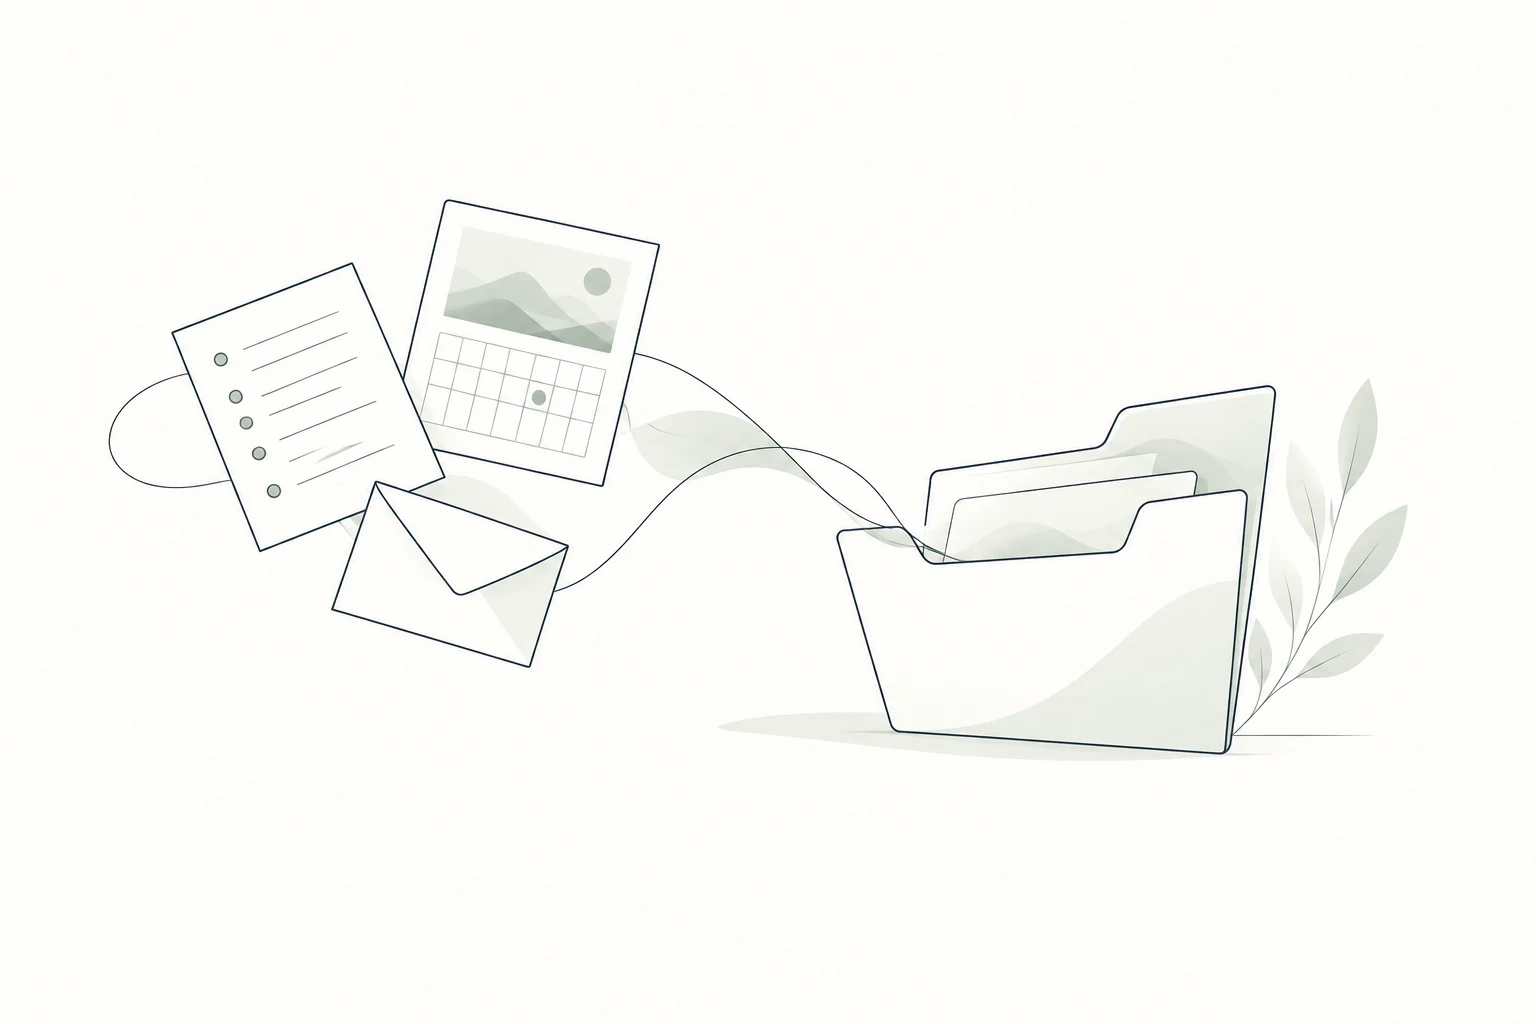
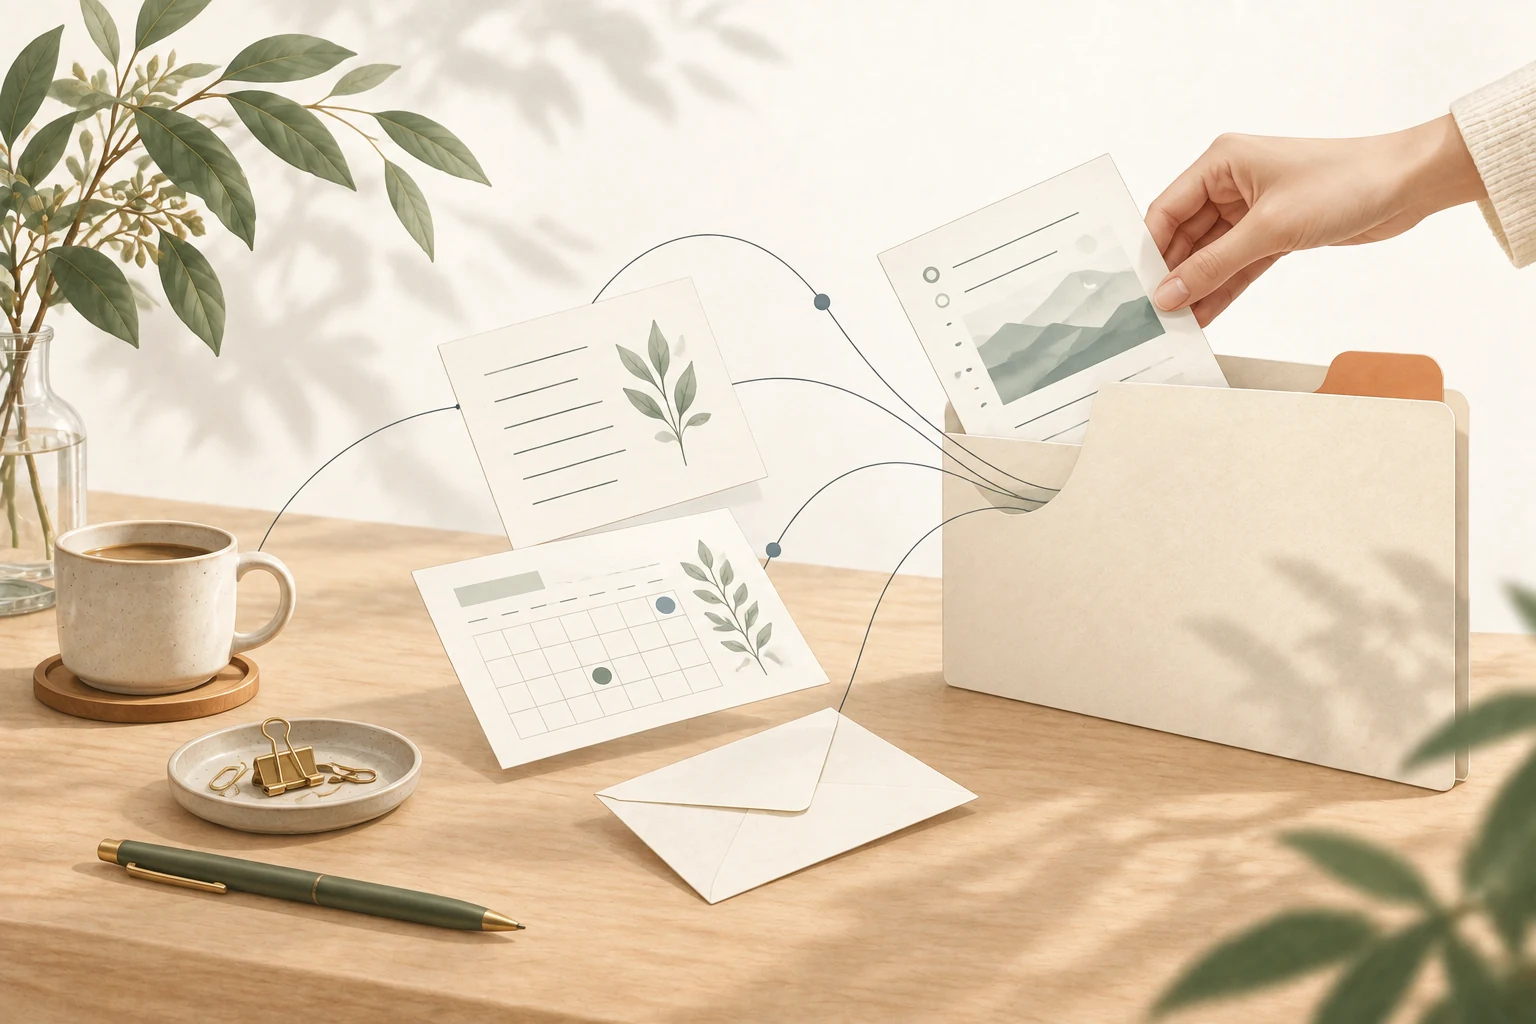
Refine warm line artwork, restore original portrait, and label Instagram

diff --git a/site/static/design-system/studio/editorial.css b/site/static/design-system/studio/editorial.css
@@ -163,3 +163,19 @@ body.studio-editorial :is(footer,.site-footer) {background:transparent!important
 }
 @media(prefers-reduced-motion:reduce) {body.studio-editorial .studio-course-body,body.studio-editorial.studio-home .compact-course-visual {transform:none!important;transition:none!important}}
 @media print {body.studio-theme.studio-editorial {background:#fff!important}}
+
+/* Warm editorial accents: small marks, fine lines, translucent portrait frames. */
+body.studio-theme.studio-editorial{--studio-apricot:#c77b51;--studio-apricot-soft:#f2dfcf;--studio-accent-ink:#8a4c2d}
+body.studio-editorial.studio-home #top .focus-kicker::before{background:var(--studio-apricot)!important;box-shadow:0 0 0 4px #c77b511c}
+body.studio-editorial.studio-home .focus-section-head small::before{width:9px;height:9px;background:var(--studio-apricot);border-color:var(--studio-apricot);border-radius:3px}
+body.studio-editorial .ai-news-feature__link::after{color:var(--studio-accent-ink)}
+body.studio-editorial .nav-link[aria-current="page"]{text-decoration-color:var(--studio-apricot)!important}
+body.studio-editorial :is(.speaker-page-copy,.studio-course-body){border-bottom:2px solid #c77b513b!important}
+body.studio-editorial.studio-home .focus-step>b{background:#f5e8dce8!important;color:#744b31!important;border-color:#dec4ae}
+body.studio-editorial.studio-admin .blog-page-nav{border-top:2px solid var(--studio-apricot)!important}
+body.studio-editorial.studio-login main{box-shadow:0 18px 48px -28px #6c513a45,inset 0 2px #c77b5170!important}
+body.studio-editorial.studio-home #speaker img.speaker-painting{aspect-ratio:2/3!important;height:540px!important;max-width:100%;object-fit:contain!important;object-position:center!important;background:#eaf0f080!important;border:8px solid #ffffffb8!important;border-radius:32px!important;box-shadow:0 20px 50px -30px #374d5960,inset 0 1px white!important}
+body.studio-editorial.speaker-page .speaker-art{aspect-ratio:2/3!important;min-height:0!important;max-height:660px;padding:8px!important;background:#ffffff80!important;border:1px solid #ffffffde!important;border-radius:32px!important;box-shadow:0 22px 50px -28px #374d5950!important;backdrop-filter:blur(18px)}
+body.studio-editorial.speaker-page .speaker-art img{width:100%!important;height:100%!important;object-fit:contain!important;object-position:center!important;border-radius:24px!important}
+body.studio-editorial.speaker-page .speaker-page-copy,body.studio-editorial.studio-home #speaker .focus-split>div{background:linear-gradient(135deg,#fffef8ed,#f5f8f0dc)!important;backdrop-filter:blur(22px);-webkit-backdrop-filter:blur(22px);border:1px solid #ffffffdf!important;box-shadow:0 18px 40px -30px #38534850}
+@media(max-width:900px){body.studio-editorial.studio-home #speaker img.speaker-painting{width:100%!important;height:460px!important}body.studio-editorial.speaker-page .speaker-art{width:100%!important;max-height:520px!important;aspect-ratio:2/3!important}body.studio-editorial.speaker-page .speaker-page-copy{margin-top:-28px!important}}

diff --git a/site/static/instagram-feed.css b/site/static/instagram-feed.css
@@ -8,3 +8,5 @@
 @media(max-width:640px){.instagram-feed{width:calc(100% - 32px);margin:12px auto 18px}.instagram-card{flex-basis:104px;width:104px;border-radius:10px}.instagram-track{gap:8px}}
 @media(prefers-reduced-motion:reduce){.instagram-card{transition:none}}
 #instagram.instagram-feed + #ai-news.ai-news-feature{margin-top:0!important}
+body.studio-editorial .instagram-feed .instagram-title{display:flex;align-items:center;gap:8px;font-size:12px!important;line-height:1.4;font-weight:600;letter-spacing:.08em;text-transform:none;color:#657269;margin:0 4px 8px;padding:0;background:none;border:0;box-shadow:none}
+body.studio-editorial .instagram-feed .instagram-title::before{content:'';width:6px;height:6px;border-radius:50%;background:#c77b51;flex:none}

diff --git a/scripts/build_warm_line_release.py b/scripts/build_warm_line_release.py
@@ -1,0 +1,65 @@
+"""Build the warm line-art release from the verified production snapshot."""
+from pathlib import Path
+import argparse,hashlib,json,re,shutil,subprocess,sys
+ROOT=Path(__file__).resolve().parents[1]
+sys.path.insert(0,str(ROOT))
+from core.instagram_feed import apply_instagram_feed,strip_instagram_feed
+from core.art_direction import decorate_art_direction,LESSONS,EDITORIAL_VERSION,PORTRAIT
+NAMES='hero agent personal code support salon site prepare try keep login'.split()
+def digest(p):return hashlib.sha256(p.read_bytes()).hexdigest()
+def hashes(root):return {p.relative_to(root).as_posix():digest(p) for p in sorted(root.rglob('*')) if p.is_file()}
+def normalize(text):
+    text=re.sub(r'(editorial\.css\?v=)[a-zA-Z0-9-]+',r'\1VERSION',text)
+    return re.sub(r'<img\b[^>]*>','<IMAGE>',text)
+def build(baseline,output):
+    contract_path=ROOT/'deployment/editorial/warm-line-baseline.json'
+    contract=json.loads(contract_path.read_text(encoding='utf-8-sig'))
+    assert digest(baseline/'verification.json')==contract['verification_sha256']
+    old=json.loads((baseline/'verification.json').read_text(encoding='utf-8'))
+    assert old['source_sha']==contract['source_sha'] and old['source_inputs_clean']
+    assert hashes(baseline/'public')==old['assets'] and hashes(baseline/'runtime')==old['runtime']
+    assert output.resolve().is_relative_to(ROOT) and not output.exists()
+    shutil.copytree(baseline/'public',output/'public');shutil.copytree(baseline/'runtime',output/'runtime')
+    changed_html=[]
+    for p in (output/'public').rglob('*.html'):
+        before=p.read_text(encoding='utf-8');after=decorate_art_direction(before)
+        if p.name=='index.html' and p.parent==output/'public':after=apply_instagram_feed(after)
+        assert normalize(strip_instagram_feed(before))==normalize(strip_instagram_feed(after)),f'Content changed: {p}'
+        assert decorate_art_direction(after)==after
+        if before!=after:
+            p.write_text(after,encoding='utf-8',newline='\n');changed_html.append(p.relative_to(output/'public').as_posix())
+    runtime_changed=[]
+    for p in (output/'runtime').rglob('*.mjs'):
+        before=p.read_text(encoding='utf-8')
+        after=re.sub(r'(editorial\.css\?v=)[a-zA-Z0-9-]+',lambda m:m[1]+EDITORIAL_VERSION,before)
+        if before!=after:
+            p.write_text(after,encoding='utf-8',newline='\n');runtime_changed.append(p.relative_to(output/'runtime').as_posix())
+    assert set(runtime_changed)=={'worker/admin-assets.generated.mjs','worker/login-page.mjs'},runtime_changed
+    owned=[f'design-system/studio/images/soft-{n}.webp' for n in NAMES]+['design-system/studio/editorial.css','instagram-feed.css']
+    additions=[f'design-system/studio/images/{name}.webp' for name,_ in LESSONS.values()]
+    for name in owned+additions:
+        shutil.copyfile(ROOT/'site/static'/name,output/'public'/name)
+    assert digest(ROOT/'site/static'/PORTRAIT.lstrip('/'))==old['assets'][PORTRAIT.lstrip('/')], 'Original portrait must remain untouched'
+    assets,runtime=hashes(output/'public'),hashes(output/'runtime')
+    changed=sorted(p for p in assets if p in old['assets'] and assets[p]!=old['assets'][p])
+    assert set(changed)==set(owned+changed_html)
+    assert set(assets)-set(old['assets'])==set(additions) and not set(old['assets'])-set(assets)
+    assert {p for p in runtime if runtime[p]!=old['runtime'][p]}==set(runtime_changed)
+    from bs4 import BeautifulSoup
+    for page in ['index.html','speaker.html']:
+        soup=BeautifulSoup((output/'public'/page).read_text(encoding='utf-8'),'html.parser')
+        assert len(soup.select('img[src="'+PORTRAIT+'"]'))==1
+    soup=BeautifulSoup((output/'public/index.html').read_text(encoding='utf-8'),'html.parser')
+    assert len(soup.select('#lecture-carousel img[src^="/design-system/studio/images/lesson-"]'))==7
+    assert soup.select_one('#instagram').get_text(strip=True)=='Instagram'
+    sources=['core/instagram_feed.py','config/instagram.json','scripts/verify_warm_line_live.py','scripts/build_warm_line_release.py','core/art_direction.py','core/studio_design.py','deployment/editorial/warm-line-baseline.json','cloudflare-runtime/wrangler-profile-release.jsonc','cloudflare-runtime/wrangler-glass-build.jsonc','deployment/profile/package.json','deployment/profile/package-lock.json','site/static'+PORTRAIT]
+    sources+=['site/static/'+n for n in owned+additions]
+    inputs={p:digest(ROOT/p) for p in sources}
+    status=subprocess.check_output(['git','-c','core.excludesFile=','status','--porcelain','--',*sources],cwd=ROOT,text=True).splitlines()
+    sha=subprocess.check_output(['git','rev-parse','HEAD'],cwd=ROOT,text=True).strip()
+    result=dict(source_sha=sha,source_inputs=inputs,source_inputs_clean=not status,source_input_status=status,baseline_source_sha=old['source_sha'],baseline_version=contract['cloudflare_version'],assets=assets,runtime=runtime,changed_assets=changed,added_assets=additions,changed_runtime=runtime_changed,unchanged_assets=len(old['assets'])-len(changed),original_portrait_preserved=True,deployed=False)
+    (output/'verification.json').write_text(json.dumps(result,ensure_ascii=False,indent=2)+'\n',encoding='utf-8')
+    print(json.dumps({k:result[k] for k in ['source_sha','source_inputs_clean','changed_runtime','unchanged_assets','original_portrait_preserved']},ensure_ascii=False))
+if __name__=='__main__':
+    p=argparse.ArgumentParser(description=__doc__);p.add_argument('--baseline',required=True,type=Path);p.add_argument('--output',required=True,type=Path)
+    a=p.parse_args();build(a.baseline.resolve(),a.output.resolve())

diff --git a/scripts/verify_warm_line_live.py b/scripts/verify_warm_line_live.py
@@ -1,0 +1,42 @@
+"""Read-only production checks for the warm artwork and original portrait release."""
+from pathlib import Path
+import argparse,json,sys
+import requests
+from bs4 import BeautifulSoup
+from verify_editorial_live import fetch,digest,route_identity,response_summary,PRODUCTION_URL,PUBLIC_ROUTES
+ROOT=Path(__file__).resolve().parents[1];sys.path.insert(0,str(ROOT))
+from core.art_direction import LESSONS,PORTRAIT,EDITORIAL_VERSION
+from build_warm_line_release import NAMES
+
+def verify(release):
+    m=json.loads((release/'verification.json').read_text(encoding='utf-8'))
+    assert m['source_inputs_clean']
+    routes=[x for x in PUBLIC_ROUTES if '/images/soft-' not in x[0]]
+    names=[f'design-system/studio/images/soft-{n}.webp' for n in NAMES]+[f'design-system/studio/images/{n}.webp' for n,_ in LESSONS.values()]+[PORTRAIT.lstrip('/')]
+    routes += [('/'+n,n) for n in names]
+    s=requests.Session();s.trust_env=False;s.headers['User-Agent']='Mozilla/5.0 (compatible; AIConsultReleaseVerifier/1.0)'
+    results=[]
+    for url,name in routes:
+        r,redirects=fetch(s,PRODUCTION_URL,url)
+        assert r.status_code==200 and digest(r.content)==m['assets'][name],url
+        if name.endswith('.html'):
+            soup=BeautifulSoup(r.content,'html.parser')
+            assert soup.select_one('#studio-editorial')['href'].endswith('?v='+EDITORIAL_VERSION),url
+            canonical=soup.select_one('link[rel="canonical"]')['href']
+            assert canonical.startswith(PRODUCTION_URL) and route_identity(canonical[len(PRODUCTION_URL):])==route_identity(url),url
+            if name in ['index.html','speaker.html']:
+                assert len(soup.select('img[src="'+PORTRAIT+'"]'))==1
+            if name=='index.html':
+                assert len(soup.select('#lecture-carousel img[src^="/design-system/studio/images/lesson-"]'))==7
+                assert len(soup.select('#instagram img'))==6 and soup.select_one('#instagram').get_text(strip=True)=='Instagram'
+        results.append(response_summary(r,url,redirects)|{'matches_release':True,'passed':True})
+    for url,status in [('/health',200),('/admin',303),('/admin/login',200),('/api/admin/ping',401)]:
+        r,redirects=fetch(s,PRODUCTION_URL,url,follow=False)
+        assert r.status_code==status,url
+        if url=='/admin':assert r.headers['Location'].split('?')[0]=='/admin/login'
+        if url=='/admin/login':assert '?v='+EDITORIAL_VERSION in r.text
+        results.append(response_summary(r,url,redirects)|{'passed':True})
+    return {'source_sha':m['source_sha'],'passed':True,'checked':len(results),'results':results}
+if __name__=='__main__':
+    p=argparse.ArgumentParser(description=__doc__);p.add_argument('--release',type=Path,required=True);p.add_argument('--output',type=Path,required=True)
+    a=p.parse_args();proof=verify(a.release);a.output.write_text(json.dumps(proof,ensure_ascii=False,indent=2)+'\n',encoding='utf-8');print(json.dumps({k:proof[k] for k in ['source_sha','passed','checked']}))

diff --git a/core/art_direction.py b/core/art_direction.py
@@ -1,0 +1,32 @@
+"""Current art direction: tactile line art and the user's original portrait."""
+import re
+PREFIX='/design-system/studio/images/'
+EDITORIAL_VERSION='20260920-warm-line'
+PORTRAIT='/img/speaker-anime.png'
+LESSONS={
+ '/lectures/assets/covers/2026-04-ai-kihon.png':('lesson-agent','AIへの依頼と成果物の確認を表す講習資料のイラスト'),
+ '/lectures/assets/covers/2026-04-ai-kangaekata.png':('lesson-practice','毎週の仕事をAIで整える実践資料のイラスト'),
+ '/lectures/assets/covers/2026-06-ai-agent-rag-design.png':('lesson-rag','資料を探し根拠を確かめるRAGのイラスト'),
+ '/lectures/assets/covers/2026-08-ai-app-site-consult-sheet.png':('lesson-site','店舗の予約と問い合わせを支えるAIサイトのイラスト'),
+ '/lectures/assets/covers/2026-07-ai-online-salon-practice.png':('lesson-salon','成果を持ち寄り学び合うオンラインサロンのイラスト'),
+ '/lectures/assets/covers/2026-05-climbing-history.png':('lesson-climbing','登山から現代のジムへ続くクライミング史のイラスト'),
+ '/img/course-path-coding.webp':('lesson-coding','コードの変更と成果を確かめる実践資料のイラスト'),
+}
+def attr(tag,name,value):
+    pattern=rf'\b{re.escape(name)}\s*=\s*([\"\']).*?\1'
+    replacement=f'{name}="{value}"'
+    return re.sub(pattern,lambda _:replacement,tag,count=1,flags=re.S) if re.search(pattern,tag,re.S) else tag[:-1]+' '+replacement+'>'
+def decorate_art_direction(text):
+    text=re.sub(r'(editorial\.css\?v=)[a-zA-Z0-9-]+',lambda m:m[1]+EDITORIAL_VERSION,text)
+    def image(match):
+        tag=match[0]
+        src=re.search(r'\bsrc=[\"\']([^\"\']+)',tag)
+        if not src:return tag
+        path=src[1]
+        if path in {PREFIX+'soft-mentor.webp',PREFIX+'soft-profile.webp'}:
+            for k,v in {'src':PORTRAIT,'alt':'AI相談講師 由井辰美のイラストポートレート','width':'1024','height':'1536'}.items():tag=attr(tag,k,v)
+        elif path in LESSONS:
+            name,alt=LESSONS[path]
+            for k,v in {'src':PREFIX+name+'.webp','alt':alt,'width':'1536','height':'1024'}.items():tag=attr(tag,k,v)
+        return tag
+    return re.sub(r'<img\b[^>]*>',image,text)

diff --git a/core/instagram_feed.py b/core/instagram_feed.py
@@ -7,8 +7,8 @@ ROOT = Path(__file__).resolve().parents[1]
 CONFIG = ROOT / 'config/instagram.json'
 START = '<!-- BEGIN:INSTAGRAM_FEED -->'
 END = '<!-- END:INSTAGRAM_FEED -->'
-HEAD = ('<link id="instagram-feed-css" rel="stylesheet" href="/instagram-feed.css?v=20260920">'
-        '<script id="instagram-feed-js" defer src="/instagram-feed.js?v=20260920"></script>')
+HEAD = ('<link id="instagram-feed-css" rel="stylesheet" href="/instagram-feed.css?v=20260920-label">'
+        '<script id="instagram-feed-js" defer src="/instagram-feed.js?v=20260920-label"></script>')
 def strip_instagram_feed(text):
     text = re.sub(re.escape(START) + r'.*?' + re.escape(END), '', text, flags=re.S)
     return re.sub(r'<link\b[^>]*\bid="instagram-feed-css"[^>]*>|<script\b[^>]*\bid="instagram-feed-js"[^>]*>\s*</script>', '', text)
@@ -26,6 +26,7 @@ def render_instagram_feed():
             f'<img src="/instagram/{code}.webp" alt="{title}" width="320" height="320" '
             'loading="lazy" decoding="async"></a>')
     return (START + '<section class="instagram-feed" id="instagram" aria-label="Instagramの投稿">'
+        '<h2 class="instagram-title">Instagram</h2>'
         '<div class="instagram-track" id="instagram-track" tabindex="0" role="region" '
         'aria-label="Instagramの投稿画像。左右キーでスクロール">' + ''.join(cards) + '</div></section>' + END)
 def apply_instagram_feed(text):

diff --git a/tests/test_art_direction.py b/tests/test_art_direction.py
@@ -1,0 +1,17 @@
+import unittest
+from core.art_direction import decorate_art_direction,PORTRAIT
+class ArtDirectionTest(unittest.TestCase):
+ def test_original_portrait_and_existing_content(self):
+  text='<h1>由井 辰美</h1><img class="speaker-painting" src="/design-system/studio/images/soft-mentor.webp" alt="old"><p>元の紹介文</p>'
+  result=decorate_art_direction(text)
+  self.assertIn('src="'+PORTRAIT+'"',result)
+  self.assertIn('<h1>由井 辰美</h1>',result);self.assertIn('<p>元の紹介文</p>',result)
+  self.assertEqual(decorate_art_direction(result),result)
+ def test_blog_instagram_and_venue_unchanged(self):
+  text='<img src="/img/blog-cloudflare-ai-hero-20260918.png"><img src="/instagram/DcB0VodkgJ9.webp"><img src="/img/gubboru-cafe.webp">'
+  self.assertEqual(decorate_art_direction(text),text)
+ def test_material_cover_is_updated_without_changing_link(self):
+  text='<a href="/lectures/2026-04-ai-kihon.html"><img src="/lectures/assets/covers/2026-04-ai-kihon.png" alt="old"></a>'
+  result=decorate_art_direction(text)
+  self.assertIn('lesson-agent.webp',result);self.assertIn('href="/lectures/2026-04-ai-kihon.html"',result)
+if __name__=='__main__':unittest.main()

diff --git a/core/studio_design.py b/core/studio_design.py
@@ -1,4 +1,4 @@
-"""Apply AI相談's shared presentation without using the instructor's portrait.
+"""Apply AI相談's shared presentation and the user-selected original illustration.
 
 The release and daily-news builders use this layer so a later content rebuild
 retains the design. Runtime decoration is limited to static HTML and login markup.
@@ -11,6 +11,7 @@ import re
 import shutil
 
 from core.soft_studio import decorate_soft_playground
+from core.art_direction import decorate_art_direction
 
 
 
@@ -149,7 +150,7 @@ def decorate_html(text: str, *, home: bool = False, admin: bool = False, login: 
     text = re.sub(r'(<script\b[^>]*type=[\"\']application/ld\+json[\"\'][^>]*>)(.*?)(</script>)', structured_data, text, flags=re.S)
     if home:
         text = decorate_soft_playground(text)
-    return text
+    return decorate_art_direction(text)
 
 
 def decorate_public_tree(output: Path) -> list[str]:

diff --git a/tests/test_instagram_images.py b/tests/test_instagram_images.py
@@ -4,9 +4,9 @@ from core.instagram_feed import apply_instagram_feed, strip_instagram_feed, rend
 class InstagramImagesTest(unittest.TestCase):
     def test_only_six_linked_images(self):
         soup=BeautifulSoup(render_instagram_feed(),'html.parser')
-        self.assertEqual(soup.get_text(strip=True),'')
+        self.assertEqual(soup.get_text(strip=True),'Instagram')
         self.assertEqual(len(soup.select('a > img')),6)
-        self.assertFalse(soup.select('iframe,button,h2,h3,p'))
+        self.assertFalse(soup.select('iframe,button,h3,p'))
         self.assertEqual(len({i['src'] for i in soup.select('img')}),6)
         for a in soup.select('a'):
             self.assertTrue(a['href'].startswith('https://www.instagram.com/p/'))

diff --git a/docs/design/warm-line-20260920.md b/docs/design/warm-line-20260920.md
@@ -1,0 +1,28 @@
+# 温かい線画と小さな差し色 — 2026-09-20
+
+基準画像はユーザーが指定した「Cloudflare・EmDash」の、お店と人物を描いたブログ画像。木・紙・ガラスの質感に、滑らかな細い線とセージ色を組み合わせた。アプリコット色は小さな印と画像の一部分に限定した。
+
+## 変更範囲
+
+- トップ、各コース、学びのステップ、ログインの共通アート11点と、受講資料入口7点を別々の構図で制作。
+- 講師画像は最終指示に従い、元の `site/static/img/speaker-anime.png` を無加工で使用。トップと自己紹介のガラス調カード・縁取りでサイトになじませた。
+- Instagramは小さな見出し「Instagram」と6枚の画像だけ。画像幅はPC128px、スマートフォン104px。投稿画像・リンクは維持。
+- 実績の画面、会場写真、ブログ本文・ブログ画像・ニュース本文は維持。
+
+## 素材
+
+生成方式: built-in imagegen。PNG原本は `warm-line-originals/`、最終プロンプトと参照画像は `warm-line-20260920-prompts.json`。Web用は `site/static/design-system/studio/images/` のWebP（1536×1024、品質88、各約106–176KB）。`warm-line-20260920-contact-sheet.png` で全18点を比較できる。
+
+## 再現と公開
+
+通常ビルドの画像対応は `core/art_direction.py` と `core/studio_design.py` に集約。Instagramは `core/instagram_feed.py` を使用する。
+
+公開中のニュース等を保持するため、検証済みリリースを入力に `scripts/build_warm_line_release.py --baseline <verified-release> --output <new-release>` を実行する。基準SHA・成果物ハッシュは `deployment/editorial/warm-line-baseline.json` に固定。原画像の同一性、本文保持、出力差分、ビルド入力のGit状態を検査する。
+
+コミット・PR・main統合後、中央台帳の登録ディレクトリで再生成し、Cloudflare公開先ガードを通してデプロイする。公開後は `scripts/verify_warm_line_live.py` とアプリ内ブラウザで確認する。最終SHA・PR・Worker版・検証結果は公開元のリリースフォルダに記録する。
+
+## 検証
+
+- 画像変換の冪等性、対象外画像と本文の保持、受講資料リンクの維持、Instagramの見出しと画像表示: 6テスト成功。
+- 生成時に元の講師PNGのSHA-256一致、本文保持、対象外ファイルの保持を検査。
+- PC幅1365px、スマートフォン幅390pxを、ユーザー指定のアプリ内ブラウザで確認。公開閲覧のみで追加ログインは行わない。
